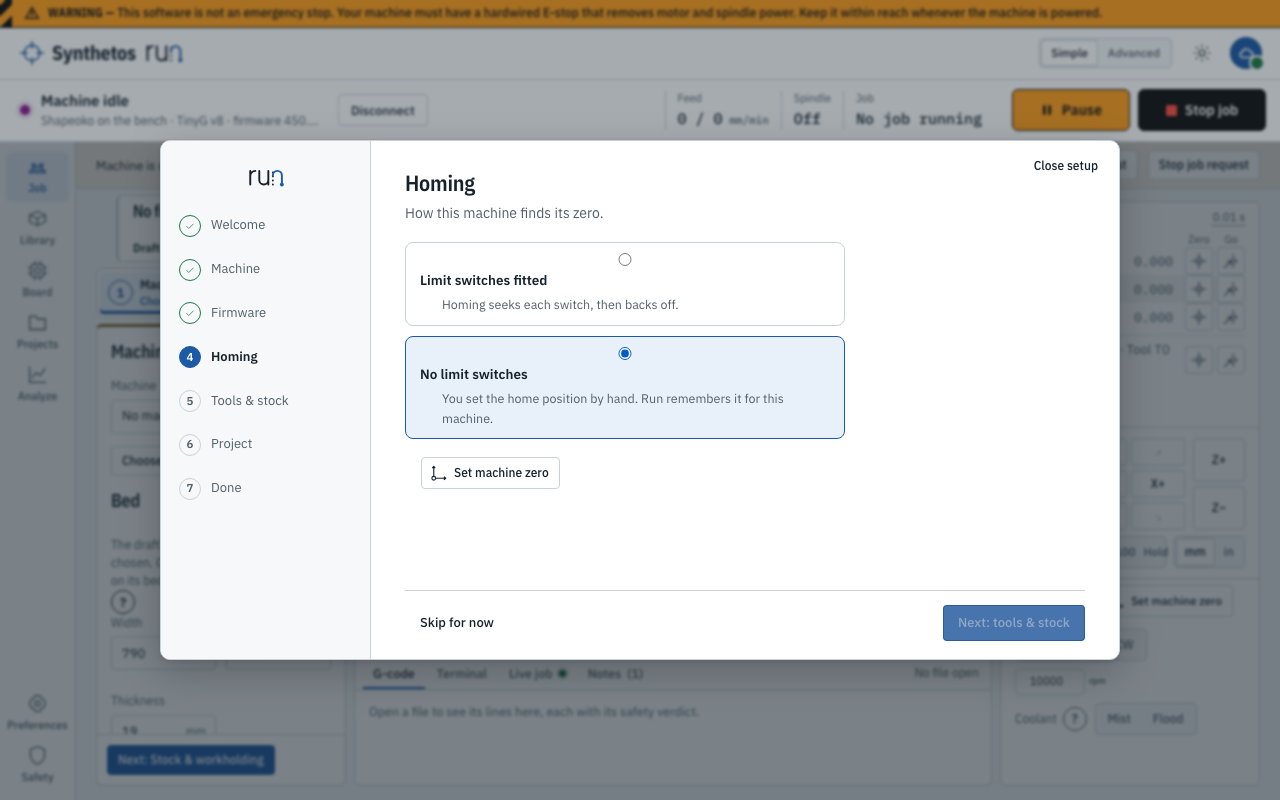
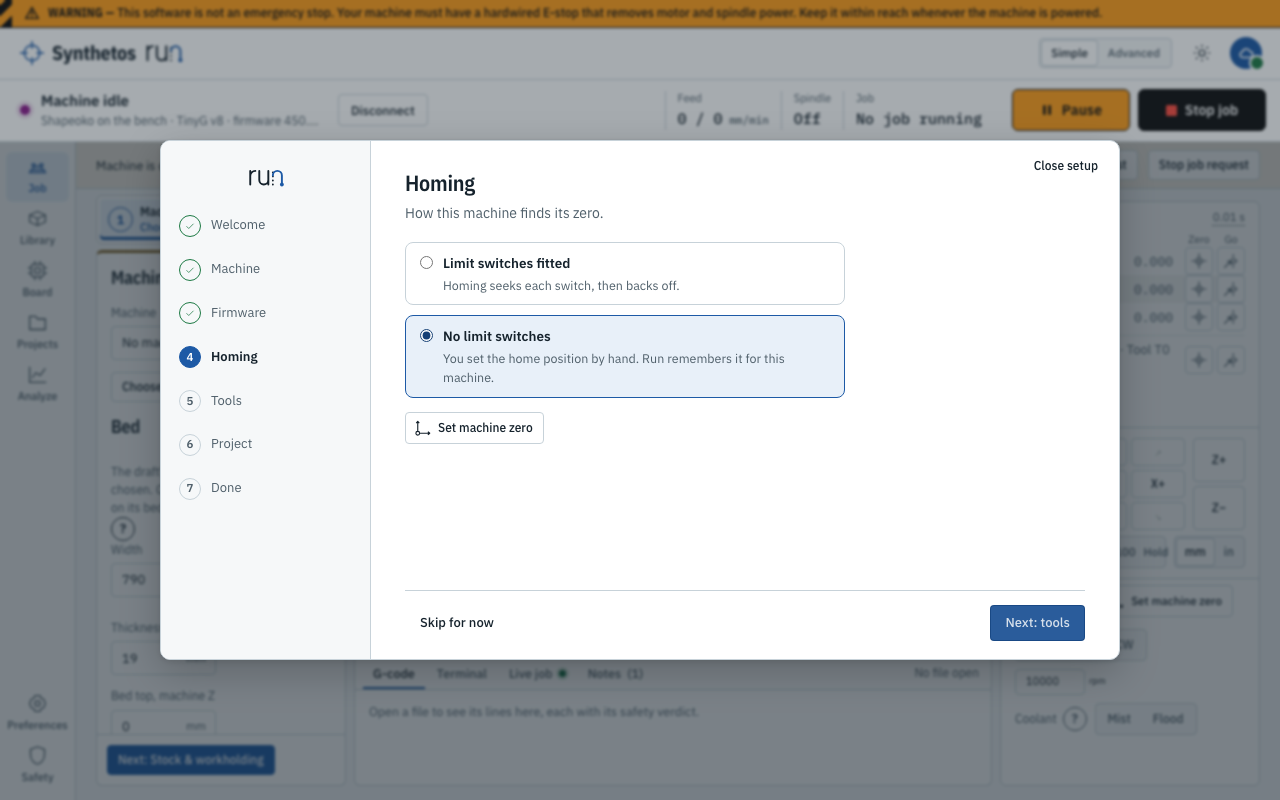
Wizard walkthrough: every step in both themes at 1280 and 960, and the fixes write-up

diff --git a/tools/e2e/specs/setup-wizard-layout.fake-serial.ts b/tools/e2e/specs/setup-wizard-layout.fake-serial.ts
@@ -7,10 +7,23 @@
 import type { Page } from '@playwright/test';
 import { expect, test } from './fixtures.ts';
 import { setupRecord } from './accountRecords.ts';
-import { open, shot as shotIn, wizard } from './wizardPage.ts';
+import { connect, next, open, shot as shotIn, step, wizard } from './wizardPage.ts';
 
 const SHOT_DIR = new URL('../../../docs/design/screenshots/wizard-fixes/', import.meta.url).pathname;
+const WALK_DIR = new URL('../../../docs/design/screenshots/setup-wizard/', import.meta.url).pathname;
 const shot = (page: Page, name: string): Promise<void> => shotIn(page, SHOT_DIR, name);
+
+/** Nothing in the step body runs off sideways, and no step text is centred (owner 145, 148). */
+async function expectTidy(page: Page): Promise<void> {
+  const g = await page.locator('.wizard-body').evaluate((body) => ({
+    overflow: body.scrollWidth - body.clientWidth,
+    centred: [...body.querySelectorAll('p, li, label, strong, h3, td, th, summary')].filter((el) => getComputedStyle(el).textAlign === 'center').map((el) => el.textContent?.slice(0, 40)),
+    wide: [...body.querySelectorAll('input[type="checkbox"], input[type="radio"]')].filter((el) => el.getBoundingClientRect().width > 20).length,
+  }));
+  expect(g.overflow).toBeLessThanOrEqual(1);
+  expect(g.centred).toEqual([]);
+  expect(g.wide).toBe(0);
+}
 
 const C1_LINES = [
   'A hardwired E-stop that removes motor and spindle power is installed and I tested it today.',
@@ -82,6 +95,20 @@ function expectC1Layout(g: C1Geometry): void {
 }
 
 for (const theme of ['light', 'dark'] as const) {
+  test(`146: a board on 449.01 with a list whose newest is 450.06 is never "current" (${theme})`, async ({ page }) => {
+    await page.emulateMedia({ colorScheme: theme });
+    await page.setViewportSize({ width: 1280, height: 800 });
+    const { worker } = await open(page, [setupRecord({ step: 3, done: [1, 2] })], 3);
+    await page.removeLocatorHandler(page.locator('[data-action="firmware-offer-later"]'));
+    await connect(worker, { fb: 449.01, fv: 0.97, hv: 8, layout: 10002 });
+    await expect(page.locator('[data-firmware-step="text"]')).toBeVisible({ timeout: 15_000 });
+    await expect(page.locator('[data-firmware-step="current"]')).toHaveCount(0);
+    await expect(wizard(page).locator('table.wizard-facts')).toContainText('TinyG 449.01');
+    await expect(wizard(page).locator('table.wizard-facts')).toContainText('TinyG 450.06');
+    await expect(page.locator('[data-action="wizard-skip"]')).toHaveCount(0);
+    await shot(page, `step-3-449-${theme}-1280`);
+  });
+
   for (const width of [1280, 960] as const) {
     test(`145: C1 opened from the wizard has its checkbox at the left of each line and sits above the frame (${theme}, ${width})`, async ({ page }) => {
       await page.emulateMedia({ colorScheme: theme });
@@ -137,6 +164,54 @@ for (const theme of ['light', 'dark'] as const) {
       await expect(catalog).toHaveCount(0);
       await expect(wizard(page).locator('[data-wizard="tool"]')).toContainText('6.35 mm');
       await expect(page.locator('[data-wizard-step="5"]')).toBeVisible();
+    });
+
+    test(`every step is tidy with the board connected (${theme}, ${width})`, async ({ page }) => {
+      test.setTimeout(90_000);
+      await page.emulateMedia({ colorScheme: theme });
+      await page.setViewportSize({ width, height: width === 1280 ? 800 : 700 });
+      const tag = `${theme}-${width}`;
+      const walk = (name: string): Promise<void> => (theme === 'light' && width === 1280 ? Promise.resolve() : shotIn(page, WALK_DIR, name));
+      const { worker } = await open(page);
+      await expectTidy(page);
+      await walk(`step-1-${tag}`);
+      await next(page).click();
+      // 2 Machine: before and after the board connects.
+      await expect(step(page, 2)).toBeVisible();
+      await expectTidy(page);
+      await connect(worker);
+      await expect(page.locator('[data-wizard="board"]')).toBeVisible({ timeout: 15_000 });
+      await expectTidy(page);
+      await walk(`step-2-${tag}`);
+      await next(page).click();
+      // 3 Firmware: the simulated 450.02 against a list naming 450.06.
+      await expect(page.locator('[data-firmware-step="text"]')).toBeVisible({ timeout: 15_000 });
+      await expectTidy(page);
+      await walk(`step-3-${tag}`);
+      await next(page).click();
+      // 4 Homing, with the no-switches card chosen (it shows Set machine zero).
+      await expect(step(page, 4)).toBeVisible();
+      await page.locator('input[name="wizard-homing"][value="none"]').check();
+      await expect(wizard(page).locator('[data-region="home-quick"]')).toBeVisible();
+      await expectTidy(page);
+      await walk(`step-4-${tag}`);
+      await next(page).click();
+      await expect(step(page, 5)).toBeVisible();
+      await expectTidy(page);
+      await next(page).click();
+      // 6 First project with "New project" chosen (its name field opens inside the card).
+      await expect(step(page, 6)).toBeVisible();
+      await page.locator('input[name="wizard-project"][value="new"]').check();
+      await expect(page.locator('[data-wizard="project-name"]')).toBeVisible();
+      await expectTidy(page);
+      await walk(`step-6-new-${tag}`);
+      await page.locator('input[name="wizard-project"][value="demo"]').check();
+      await next(page).click();
+      await expect(step(page, 7)).toBeVisible({ timeout: 30_000 });
+      await expectTidy(page);
+      await page.locator('.wizard details').first().locator('summary').click();
+      await expectTidy(page);
+      await walk(`step-7-${tag}`);
     });
 
     test(`147: Create a tool opens the editor above the frame, never cut to it (${theme}, ${width})`, async ({ page }) => {

diff --git a/apps/web/src/styles/wizard.css b/apps/web/src/styles/wizard.css
@@ -27,7 +27,7 @@ li[data-mark="done"] .wizard-step-mark { border-color: var(--ok); color: var(--o
 .wizard-close { position: absolute; top: 10px; right: 10px; }
 .wizard-line { font-size: 13px; line-height: 1.55; color: var(--muted); margin: 0 0 10px; }
 .wizard-headline { font-size: 14px; font-weight: 600; color: var(--ink); margin: 0 0 6px; }
-.wizard-covers { margin: 0 0 14px; padding-left: 18px; font-size: 13.5px; line-height: 1.7; }
+.wizard-covers { margin: 0 0 14px; padding-left: 18px; list-style: disc; font-size: 13.5px; line-height: 1.7; }
 /* Fields are sized to their content (spec §6.3). */
 .wizard-field-row { display: flex; flex-wrap: wrap; gap: 12px 16px; align-items: flex-end; margin: 0 0 14px; }
 .wizard-field { display: flex; flex-direction: column; gap: 4px; font-size: 12.5px; color: var(--muted); }
@@ -91,3 +91,5 @@ table.wizard-facts tr + tr th, table.wizard-facts tr + tr td { border-top: 1px s
 /* Step 4: without switches the step shows the existing Set machine zero control (homing.ts HomeQuick, unchanged)
    and hides its Home button: homing moves the machine and Pause and Stop are under the wizard's lock. */
 .wizard-homing .home-quick .motion-recovery > :nth-child(1) { display: none; }
+/* HomeQuick's side padding fits the Job page's inspector; in the step it lines up with the cards above it. */
+.wizard-homing .home-quick { padding: 4px 0 0; }

diff --git a/docs/design/SETUP_WIZARD.md b/docs/design/SETUP_WIZARD.md
@@ -1,11 +1,12 @@
 # The setup wizard
 
 A signed-in account with no machine is met by one dialog over the dimmed workspace: the run wordmark, seven
-numbered steps down the left, one job per screen. Welcome, your machine, firmware, homing, tools and stock, a first
-project, done. Every step but the first and the last can be skipped. Progress lives in the account, so the wizard
-resumes where it was left on any browser. It ends with the demo name plate open on the Job page. Design:
-`docs/superpowers/specs/2026-11-16-first-run-design.md` §6; plan and rulings:
-`docs/superpowers/plans/2026-11-18-setup-wizard.md`.
+numbered steps down the left, one job per screen. Welcome, your machine, firmware, homing, tools, a first project,
+done. Every step but the first and the last can be skipped. Progress lives in the account, so the wizard resumes
+where it was left on any browser. It ends with the demo name plate open on the Job page. Design:
+`docs/superpowers/specs/2026-11-16-first-run-design.md` §6 (amended by OD-41 and OD-42); plans and rulings:
+`docs/superpowers/plans/2026-11-18-setup-wizard.md`, `docs/superpowers/plans/2026-11-18-wizard-fixes.md`. What the
+owner rejected on staging and how it was fixed: `docs/design/WIZARD_FIXES.md`.
 
 **Every picture below is simulated**: the fake-serial test build drives a simulated TinyG board, and the account is
 an in-memory stub of the record service. No bench hardware was used. The firmware `needed` shot uses the simulated
@@ -15,38 +16,41 @@ person who connects from the wizard never sees that.
 
 ## What a first-time user sees
 
-| Step | What happens | |
-|---|---|---|
-| 1 Welcome | What the account now covers and how long setup takes. Focus starts on the heading; Tab reaches the primary. | ![Step 1](screenshots/setup-wizard/step-1-light-1280.png) |
-| 2 Your machine | A machine template, a name (300 px), the bed's three sizes (96 px plus mm), then the existing Connect flow. Once connected the line shows the board and its id; Next saves the machine record bound to that board. | ![Step 2](screenshots/setup-wizard/step-2-light-1280.png) |
-| 3 Firmware | The board's build against the newest release Run supports, decided by `firmware/updateOffer.ts`. Here the simulated board runs 450.02 and 450.06 is released: skippable, Next on. | ![Step 3](screenshots/setup-wizard/step-3-light-1280.png) |
-| 3 Firmware, needed | Below what Run controls: no Skip, Next held, the exact offer text, "Update firmware". | ![Step 3 needed](screenshots/setup-wizard/step-3-needed-light-1280.png) |
-| 3 Firmware, updating | "Update firmware" runs the Board tab's own update flow inside the frame with the offered release marked. The flash itself is the existing flow, unchanged (`flasher.fake-serial.ts` covers it). | ![Step 3 update](screenshots/setup-wizard/step-3-update-light-1280.png) |
-| 4 Homing | Two radio cards; the choice is written to the setup record as it is made and never to the board. Homing moves the machine and Pause and Stop sit under the wizard's lock, so the wizard never offers Home: with switches it points to the Job page; without switches it shows the existing Set machine zero control (no motion). | ![Step 4](screenshots/setup-wizard/step-4-light-1280.png) |
-| 5 Tools and stock | Add from catalog (the catalog picker, in place) or Create a tool (the tool editor, on top); the stock's three sizes, saved to the setup record by Add stock. | ![Step 5](screenshots/setup-wizard/step-5-light-1280.png) |
-| 6 First project | The demo name plate, or a new project by name. Open project makes the demo as a real project in the account and opens its file. | ![Step 6](screenshots/setup-wizard/step-6-light-1280.png) |
-| 7 You are set | The project that is open, one line on what to do next, and the "More to set up" rows, each collapsed with a link to the place in Run where it is done. | ![Step 7](screenshots/setup-wizard/step-7-light-1280.png) |
-| The Job page | After "Go to the Job page": the name plate open, stock 180 × 120 × 6.35 mm, the machine and bed from step 2. | ![Job page](screenshots/setup-wizard/job-demo-light-1280.png) |
-
-Dark theme, first and last step:
-
-| | |
-|---|---|
-| ![Step 1 dark](screenshots/setup-wizard/step-1-dark-1280.png) | ![Step 7 dark](screenshots/setup-wizard/step-7-dark-1280.png) |
+| Step | What happens | Light | Dark |
+|---|---|---|---|
+| 1 Welcome | What the account now covers and how long setup takes. Focus starts on the heading; Tab reaches the primary. | ![Step 1](screenshots/setup-wizard/step-1-light-1280.png) | ![Step 1 dark](screenshots/setup-wizard/step-1-dark-1280.png) |
+| 2 Your machine | A machine template, a name (300 px), the bed's three sizes (96 px plus mm), then the existing Connect flow. Its C1 checklist opens above the frame, never cut to it. Once connected the line shows the board and its id; Next saves the machine record bound to that board. | ![Step 2](screenshots/setup-wizard/step-2-light-1280.png) | ![Step 2 dark](screenshots/setup-wizard/step-2-dark-1280.png) |
+| 3 Firmware | The board's build against the verified release list (`firmware/updateOffer.ts` `firmwareStanding`). Here the simulated board runs 450.02 and 450.06 is released: skippable, Next on. "Current" only when the list is loaded and names nothing newer. | ![Step 3](screenshots/setup-wizard/step-3-light-1280.png) | ![Step 3 dark](screenshots/setup-wizard/step-3-dark-1280.png) |
+| 3 Firmware, needed | Below what Run controls: no Skip, Next held, the exact offer text, "Update firmware". On a site with no updater Skip stays and Next is held. When the update cannot run right now the facts stay and one line says why. | ![Step 3 needed](screenshots/setup-wizard/step-3-needed-light-1280.png) | |
+| 3 Firmware, updating | "Update firmware" runs the Board tab's own update flow inside the frame with the offered release marked. The flash itself is the existing flow, unchanged (`flasher.fake-serial.ts` covers it). | ![Step 3 update](screenshots/setup-wizard/step-3-update-light-1280.png) | |
+| 4 Homing | Two radio cards, the radio at the left beside the title. The choice is written to the setup record as it is made and never to the board. The wizard never offers Home (OD-41): with switches it points to the Job page; without switches it shows the existing Set machine zero control (no motion). | ![Step 4](screenshots/setup-wizard/step-4-light-1280.png) | ![Step 4 dark](screenshots/setup-wizard/step-4-dark-1280.png) |
+| 5 Tools | Tools only (OD-42). Add from catalog opens the catalog as a whole page; adding a tool there brings the step back with it. Create a tool opens the tool editor above the frame. | ![Step 5](screenshots/setup-wizard/step-5-light-1280.png) | ![Step 5 dark](screenshots/wizard-fixes/step-5-dark-1280.png) |
+| 5 Tools, the catalog | The catalog's own layout at the full viewport: every tool listed without a search, filters for maker, size and type, and a search that takes name, size, flutes or part number. | ![Catalog](screenshots/wizard-fixes/step-5-catalog-light-1280.png) | ![Catalog dark](screenshots/wizard-fixes/step-5-catalog-dark-1280.png) |
+| 6 First project | The demo name plate, or a new project by name (the field opens inside the card). Open project makes the demo as a real project in the account, on its own 180 × 120 × 6.35 mm MDF, and opens its file. | ![Step 6](screenshots/setup-wizard/step-6-light-1280.png) | ![Step 6 dark](screenshots/wizard-fixes/step-6-dark-1280.png) |
+| 7 You are set | The project that is open, one line on what to do next, and the "More to set up" rows, each collapsed with a link to the place in Run where it is done. | ![Step 7](screenshots/setup-wizard/step-7-light-1280.png) | ![Step 7 dark](screenshots/setup-wizard/step-7-dark-1280.png) |
+| The Job page | After "Go to the Job page": the name plate open, stock 180 × 120 × 6.35 mm, the machine and bed from step 2. | ![Job page](screenshots/setup-wizard/job-demo-light-1280.png) | |
 
 Below 1024 px the frame is full-screen and the rail collapses to seven dots and the current step's name:
 
-![Step 2 at 960 px](screenshots/setup-wizard/step-2-light-960.png)
+| | Light | Dark |
+|---|---|---|
+| 1 Welcome | ![Step 1 at 960](screenshots/setup-wizard/step-1-light-960.png) | ![Step 1 at 960 dark](screenshots/setup-wizard/step-1-dark-960.png) |
+| 2 Your machine | ![Step 2 at 960](screenshots/setup-wizard/step-2-light-960.png) | ![Step 2 at 960 dark](screenshots/setup-wizard/step-2-dark-960.png) |
+| 3 Firmware | ![Step 3 at 960](screenshots/setup-wizard/step-3-light-960.png) | ![Step 3 at 960 dark](screenshots/setup-wizard/step-3-dark-960.png) |
+| 4 Homing | ![Step 4 at 960](screenshots/setup-wizard/step-4-light-960.png) | ![Step 4 at 960 dark](screenshots/setup-wizard/step-4-dark-960.png) |
+| 5 Tools | ![Step 5 at 960](screenshots/wizard-fixes/step-5-light-960.png) | ![Step 5 at 960 dark](screenshots/wizard-fixes/step-5-dark-960.png) |
+| 6 New project | ![Step 6 at 960](screenshots/setup-wizard/step-6-new-light-960.png) | ![Step 6 at 960 dark](screenshots/setup-wizard/step-6-new-dark-960.png) |
+| 7 You are set | ![Step 7 at 960](screenshots/setup-wizard/step-7-light-960.png) | ![Step 7 at 960 dark](screenshots/setup-wizard/step-7-dark-960.png) |
 
 ## Where things live
 
 | Piece | File |
 |---|---|
 | The record kind `setup` (one document per account, id `setup`) | `packages/library/src/setup.ts` (reader), `packages/contracts/src/records.ts`, `workers/run/src/limits.ts`, `workers/run-data/src/store.ts`, `workers/run-data/migrations/0004_setup_records.sql` |
-| The record on the page: view signal, writer, default stock | `apps/web/src/workspace/cloud/setupSync.ts`, wired in `librarySync.ts` |
+| The record on the page: view signal and writer | `apps/web/src/workspace/cloud/setupSync.ts`, wired in `librarySync.ts` |
 | Open, resume and rail rules (pure) | `apps/web/src/wizard/wizardState.ts` |
-| Frame, rail, mount, actions | `apps/web/src/wizard/WizardFrame.ts`, `WizardRail.ts`, `SetupWizard.ts`, `setupActions.ts`; styles `apps/web/src/styles/wizard.css` |
-| One file per step | `apps/web/src/wizard/steps/{Welcome,Machine,Firmware,Homing,ToolsStock,FirstProject,Done}.ts` with their pure helpers `machineDraft.ts`, `firmwareStep.ts`, `homingStep.ts`, `stockFields.ts` |
+| Frame, rail, mount, actions | `apps/web/src/wizard/WizardFrame.ts`, `WizardRail.ts`, `SetupWizard.ts`, `setupActions.ts`; styles `apps/web/src/styles/wizard.css` (wizard-owned classes only) plus the app's base input rules in `workspace.css`, which name `.wizard` beside `.app` |
+| One file per step | `apps/web/src/wizard/steps/{Welcome,Machine,Firmware,Homing,Tools,FirstProject,Done}.ts` with their pure helpers `machineDraft.ts`, `firmwareStep.ts`, `homingStep.ts`, `toolChoice.ts`; the radio card `PickCard.ts`; the catalog page `CatalogPage.ts` |
 | The demo project | `apps/web/src/wizard/demoProject.ts` (program, tool, stock, setup), `createDemo.ts` (writes and opens) |
 | "More to set up" rows | `apps/web/src/wizard/moreTopics.ts`; how they seed help articles: `docs/design/HELP_SYSTEM.md` |
 | "Run setup again" | Preferences, `apps/web/src/workspace/views/OtherViews.ts` |
@@ -55,8 +59,9 @@ Below 1024 px the frame is full-screen and the rail collapses to seven dots and 
 ## What the wizard writes
 
 Only account records, through the paths that exist: the machine (with `boardId`), the tool entry, the project with
-its file and setup, and the setup record itself (`dismissed`, `step`, `done`, `homing`, `stock`, `toolId`,
-`machineId`, `projectId`). Nothing goes to browser storage; nothing is written to the board.
+its file and setup, and the setup record itself (`dismissed`, `step`, `done`, `homing`, `toolId`, `machineId`,
+`projectId`). It no longer writes `stock` (OD-42); an older record that has one still reads. Nothing goes to browser
+storage; nothing is written to the board.
 
 ## Rulings made while building
 
@@ -64,24 +69,27 @@ its file and setup, and the setup record itself (`dismissed`, `step`, `done`, `h
 |---|---|
 | The wizard opens when signed in, after the first record read, with no dismissal, and either no machine record or a setup record at all (a started wizard, or "Run setup again"). A legacy account with machines and no record never sees it uninvited. | A started wizard shows on every load until finished or closed, which is the resume behaviour the spec asks for. |
 | The homing choice lives on the setup record; the board is never written. | None: owner's decision 2026-11-17. |
-| The wizard never offers "Home": Pause and Stop are in the machine strip under the wizard's lock (SAFETY §4.1). With switches the step points to the Job page; without switches it shows Set machine zero, which does not move the machine. | The spec's "Home now" waits for the Job page; a slice that keeps the strip outside the lock could bring it back. |
-| "Update firmware" embeds the Board tab's whole update flow in the frame. While the flash runs, or while the update was started and the session is closed, the step is `updating`: no Skip, Next held, the flow stays on screen. Next unlocks when the board is back and the offer is no longer `needed`. | A cramped layout in the content column; it scrolls. |
+| The wizard never offers "Home": Pause and Stop are in the machine strip under the wizard's lock (SAFETY §4.1, OD-41). With switches the step points to the Job page; without switches it shows Set machine zero, which does not move the machine. | The spec's "Home now" waits for the Job page; a slice that keeps the strip outside the lock could bring it back. |
+| "Update firmware" embeds the Board tab's whole update flow in the frame. While the flash runs, or while the update was started and the session is closed, the step is `updating`: no Skip, Next held, the flow stays on screen. Next unlocks when the board is back and is no longer `needed`. | A cramped layout in the content column; it scrolls. |
+| The firmware step reads the board's standing from the release list; the offer only decides whether the update can run now. A `needed` board on a site with no updater keeps Skip and holds Next. | The owner may want `needed` never skippable; then such a person can only Close setup. |
 | Steps 3 and 4 name the connected board and refuse another board than the machine's with one line; step 3 then hides "Update firmware" and holds Next. | None visible. |
 | A refused "Open project" (a running job, a missing file) still records the project it made; the next press opens that project instead of making another. | None visible. |
 | Closing is a quiet "Close setup" button; Escape does nothing. Preferences brings it back at step 1. | One extra button. |
-| The chosen tool is the entry added while step 5 is open; the stock is written when Add stock is pressed. | A tool added elsewhere during the step counts as the choice. |
+| The chosen tool is the newest entry added while step 5 is open, including on a wizard that resumed at step 5. The catalog page closes on the first tool added after it opened. | A tool added elsewhere during the step counts as the choice. |
 | The demo tool is defined in code with the catalog's values (id `demo.quarter-2f`); the catalog is not fetched. | A duplicate of one catalog row. |
 | There is no new-project dialog in Run; "New project" takes a name in the card and creates it the way Projects does. | None visible. |
-| The setup stock becomes the default stock of new draft jobs until a project uses it. | One computed read in `jobModel.ts`. |
+| New draft jobs take the seed stock; the job's own Stock step owns stock (OD-42 retired the "setup stock becomes the default" hook). | An account that saved stock in the first wizard loses that default. |
 | A conflict on the setup record keeps the account version and drops the local write (the record has one id). | One wizard action lost on a race between two browsers. |
 
 ## Testing it locally
 
 The local page is a non-hosted origin, so stub the account and the record service in a browser test as
-`tools/e2e/specs/accountRecords.ts` does (`stubAccount`, `fakeRecords`, `setupRecord`). Unit tests:
-`apps/web/test/{wizardState,wizardFrame,appShellWizard,setupActions,setupSync,machineDraft,firmwareStep,homingStep,stockFields,demoProject,createDemo,moreTopics,wizardSteps,preferencesSetup}.test.ts`,
-`packages/library/test/setup.test.ts`, `workers/run-data/test/kinds.test.ts`. Browser test and screenshots:
+`tools/e2e/specs/accountRecords.ts` does (`stubAccount`, `fakeRecords`, `setupRecord`); the shared wizard steps are in
+`tools/e2e/specs/wizardPage.ts`. Unit tests:
+`apps/web/test/{wizardState,wizardFrame,appShellWizard,setupActions,setupSync,machineDraft,firmwareStep,homingStep,toolsStep,toolCatalog,connectNoticeC1,demoProject,createDemo,moreTopics,wizardSteps,preferencesSetup}.test.ts`,
+`packages/library/test/setup.test.ts`, `workers/run-data/test/kinds.test.ts`. Browser tests and screenshots (the
+layout spec measures C1, the radio cards, the catalog page and every step in both themes at 1280 and 960):
 
 ```sh
-RUN_E2E_FAKE_SERIAL=1 RUN_SCREENSHOTS=1 pnpm --filter @synthetos/e2e exec playwright test -c playwright.fake-serial.config.ts specs/setup-wizard.fake-serial.ts
+RUN_E2E_FAKE_SERIAL=1 RUN_SCREENSHOTS=1 pnpm --filter @synthetos/e2e exec playwright test -c playwright.fake-serial.config.ts specs/setup-wizard.fake-serial.ts specs/setup-wizard-layout.fake-serial.ts
 ```

diff --git a/docs/design/WIZARD_FIXES.md b/docs/design/WIZARD_FIXES.md
@@ -1,0 +1,118 @@
+# Setup wizard fixes (owner's staging walk, 2026-11-18)
+
+The owner walked the setup wizard on staging with a real board, in the dark theme, and rejected four screens:
+“fix all of this in staging then we will take another look after it deploys”. Each section below has the owner's
+picture, the same screen after the fix, what was wrong and why. The new pictures are from the fake-serial stand-in
+(simulated board, stubbed account); no bench hardware was used. Plan and rulings:
+`docs/superpowers/plans/2026-11-18-wizard-fixes.md`. The full walkthrough is `docs/design/SETUP_WIZARD.md`.
+
+## 145: the "Before you connect" checklist inside the wizard
+
+Owner: “this looks like junk. fix.”
+
+| Owner, staging | After |
+|---|---|
+| ![145](screenshots/wizard-fixes/owner/145.png) | ![C1 in the wizard](screenshots/wizard-fixes/c1-in-wizard-dark-1280.png) |
+
+**What was wrong.** The checkboxes floated in the middle of each line, the text sat to their right at a different
+place on every line, and the dialog was cut off by the wizard frame.
+
+**Why.** The wizard mounts beside the app's root element, not inside it. The shared stylesheet gives every `input` a
+full width and padding, and only the app's root resets checkboxes and radios back to their natural size. Inside the
+wizard each checkbox stretched across its line, so its box sat in the middle of a wide empty input. The C1 dialog's
+backdrop is positioned against its nearest positioned ancestor, which inside the wizard is the frame, and the frame
+clips what overflows it.
+
+**Fix.** The app's base input rules now name the wizard beside the app, so checkboxes and radios are their natural
+size there too. A dialog the wizard hosts covers the whole page above the frame. The frame no longer borrows the
+shared dialog class, and every wizard rule names a wizard-owned class, so nothing in the wizard's stylesheet reaches
+into the dialogs and app parts it hosts. A browser test measures the checklist inside the wizard at 1280 and 960 in
+both themes: each checkbox is at most 20 px wide and left of its text, every line's text starts at the same place,
+the dialog is inside the viewport and on top. C1 itself cannot be reached on the local page (the safety advisory
+refusal comes first), so the test places the checklist's exact markup where Connect puts it, and a unit test pins
+that markup to the real component.
+
+## 146: firmware 449.01 called "current"
+
+Owner: “nope not current why did this say this?!”
+
+| Owner, staging | After (simulated board on 449.01) |
+|---|---|
+| ![146](screenshots/wizard-fixes/owner/146.png) | ![Firmware 449.01](screenshots/wizard-fixes/step-3-449-dark-1280.png) |
+
+**What was wrong.** The step said "Firmware 449.01 is current" while the newest release Run supports for that
+hardware is 450.06, and 449.01 is below what Run controls.
+
+**Why.** The step asked the update offer and treated every "no offer" as "current". The offer stays quiet for many
+reasons that have nothing to do with being current: the release list has not loaded, the site has no updater, the
+board is not at rest, an overlay is up, the session is read-only, a job is loaded.
+
+**Fix.** The step now judges the board against the verified release list itself, with the same rules the offer uses
+(`firmwareStanding` and `newestRelease` in `firmware/updateOffer.ts`). The offer only decides whether the update can
+run from the wizard right now. The states are checking, list failed, needed, available, not listed and current.
+"Current" appears only when the list is loaded and names nothing newer for this hardware. When a newer release
+exists but the update cannot run now, the step keeps the "On the board / Run expects" table and says why in one line:
+the machine is not idle, the connection is read-only, or this site has no updater. Unit tests cover each state,
+including 449.01 against a list whose newest is 450.06.
+
+## 147: the catalog squeezed into the frame, and stock in the wizard
+
+Owner: “add from catalog looks terrible its inside of the modal just awful. maybe it should show the whole page modal
+for the catalog the user selects it then adds it then it goes back to the setup wizard, also you have to search by a
+pn to find anything this is terrible. adding stock does not ask what material it is? not really show it we are
+setting up the machine not the job i think”
+
+| Owner, staging | After: step 5 | After: the catalog page |
+|---|---|---|
+| ![147](screenshots/wizard-fixes/owner/147.png) | ![Step 5](screenshots/wizard-fixes/step-5-dark-1280.png) | ![Catalog](screenshots/wizard-fixes/step-5-catalog-dark-1280.png) |
+
+**What was wrong.** The catalog opened inside the left card of a two-card row in the frame. Its filters filled the
+card and the list of tools sat below the fold, so it looked as if only a part-number search found anything. The
+search box said "Search by part number or name", and the search only matched maker, part number, type and the
+description. Beside it, a stock card asked for sizes without a material, in a wizard that sets up the machine.
+
+**Why.** Step 5 embedded the Library's catalog component in the frame's body as it was. The catalog search was a
+plain substring match on four fields.
+
+**Fix.** Stock is out of the wizard (OD-42): step 5 is "Tools", the wizard no longer writes stock to the setup record
+(older records with one still read), new draft jobs take the seed stock, and the demo keeps its own 180 × 120 ×
+6.35 mm MDF. "Add from catalog" opens the catalog as a whole page over the wizard in its normal layout, with "Back to
+setup" on top. Adding a tool closes the page and the step shows it. The catalog lists every tool with no search. The
+search now takes every word you type and matches name, type, diameter in millimetres or as an inch fraction, flute
+count ("2 flute") and part number; that change is in the catalog component, so the Library has it too. "Create a
+tool" opens the tool editor above the frame.
+
+| Create a tool at 960, dark |
+|---|
+| ![Create a tool](screenshots/wizard-fixes/step-5-create-dark-960.png) |
+
+## 148: radios in the middle of the cards
+
+Owner: “this looks terrible radios inside of the middle of the buttons.”
+
+| Owner, staging | After |
+|---|---|
+| ![148](screenshots/wizard-fixes/owner/148.png) | ![First project](screenshots/wizard-fixes/step-6-dark-1280.png) |
+
+**What was wrong.** In First project and Homing the radio sat on its own line, centred above the card's title.
+
+**Why.** The same cause as 145: outside the app's root the radio kept the shared full-width input rule, so it took a
+whole line and its circle sat in the middle.
+
+**Fix.** The base input rule fix, plus one wizard radio card (`PickCard.ts`) used by both steps: the radio at the
+left, level with the title, the title and description left-aligned beside it, at most 440 px wide. A browser test
+checks those positions at 1280 and 960 in both themes.
+
+## Also found on the walk
+
+Every step was walked in both themes at 1280 and at 960 with the board connected. A browser test now checks each step
+for sideways overflow, centred text and stretched checkboxes or radios.
+
+- **Step 4, Set machine zero.** The control kept the Job page inspector's side padding and sat indented from the
+  cards above it. It now lines up with them.
+- **Step 1, the list.** Without the app's list styling the three lines sat indented with no marks. They now have
+  bullets.
+- **Step 5, a resumed wizard.** A wizard that resumed directly on step 5 never noticed a newly added tool, so the step
+  did not show it. The step now records the tool list it opened with.
+- **Dialogs the wizard hosts.** The tool editor and the catalog's preview and add dialogs had the same clipping cause
+  as C1. They now cover the page above the frame.
